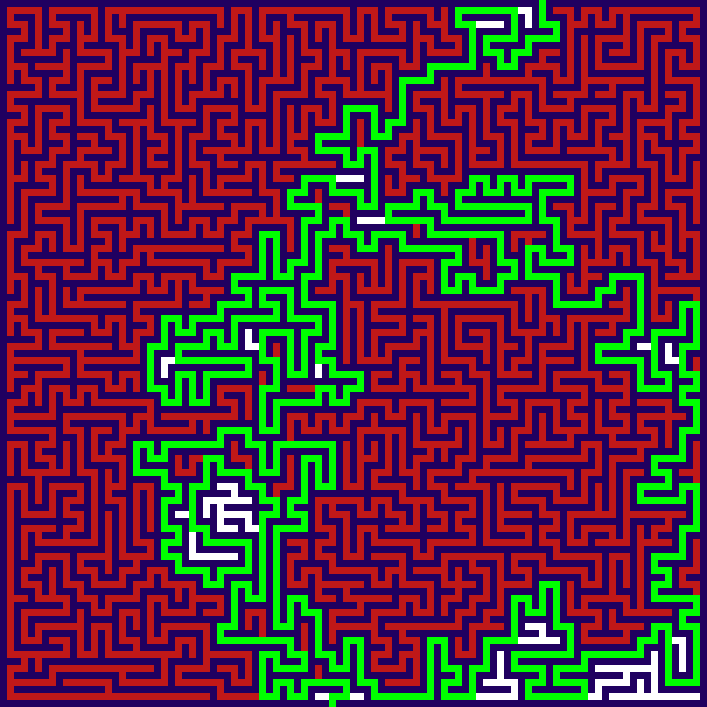
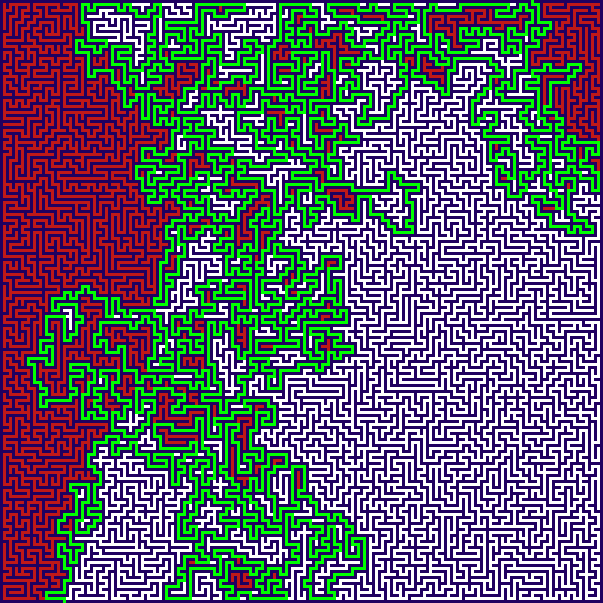
change TENTATIVE to DEADEND

diff --git a/char_maze.py b/char_maze.py
@@ -17,7 +17,7 @@ def print_map(maze_map):
     string_map = {Cell_Type.WALL: "XX",
                   Cell_Type.SOLUTION: "()",
                   Cell_Type.UNTOUCHED: "  ",
-                  Cell_Type.TENTATIVE: "++"}
+                  Cell_Type.DEADEND: "++"}
     for row in range(maze_map.num_rows):
         for col in range(maze_map.num_columns):
             cell_type = maze_map.cell_type((row, col))
@@ -40,7 +40,7 @@ def get_png_rows(maze_map: Maze_Map, target_width: int, color_map):
 
 def make_image(map: Maze_Map) -> png.Image:
     color_map = {Cell_Type.WALL: [32, 0, 96],
-                 Cell_Type.TENTATIVE: [192, 24, 24],
+                 Cell_Type.DEADEND: [192, 24, 24],
                  Cell_Type.SOLUTION: [0, 255, 0],
                  Cell_Type.UNTOUCHED: [255, 255, 255]}
     picture_rows = get_png_rows(map, 8*96, color_map)

diff --git a/maze.py b/maze.py
@@ -33,7 +33,7 @@ class _Grid_Graph():
 class Cell_Type(Enum):
     WALL = 1
     UNTOUCHED = 2
-    TENTATIVE = 3
+    DEADEND = 3
     SOLUTION = 4
 
 
@@ -101,7 +101,7 @@ class Maze_Map:
                     self.set_cell_type(position, Cell_Type.SOLUTION)
                     explore(step, depth)
             # this cell is at a dead end
-            self.set_cell_type(position, Cell_Type.TENTATIVE)
+            self.set_cell_type(position, Cell_Type.DEADEND)
             return
 
         old_recursion_limit = sys.getrecursionlimit()
